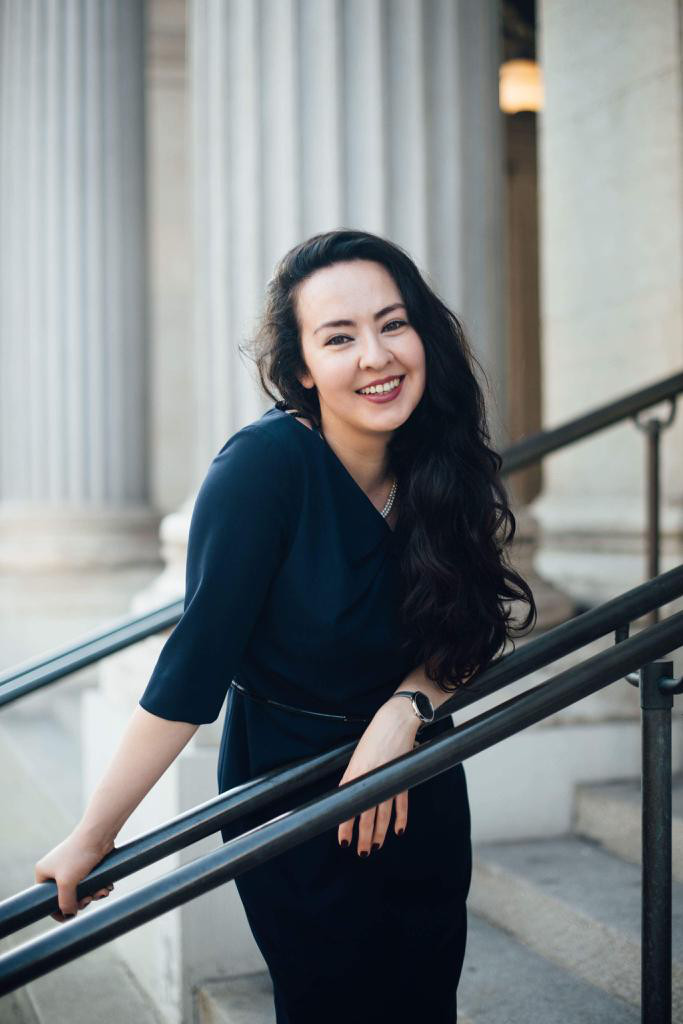
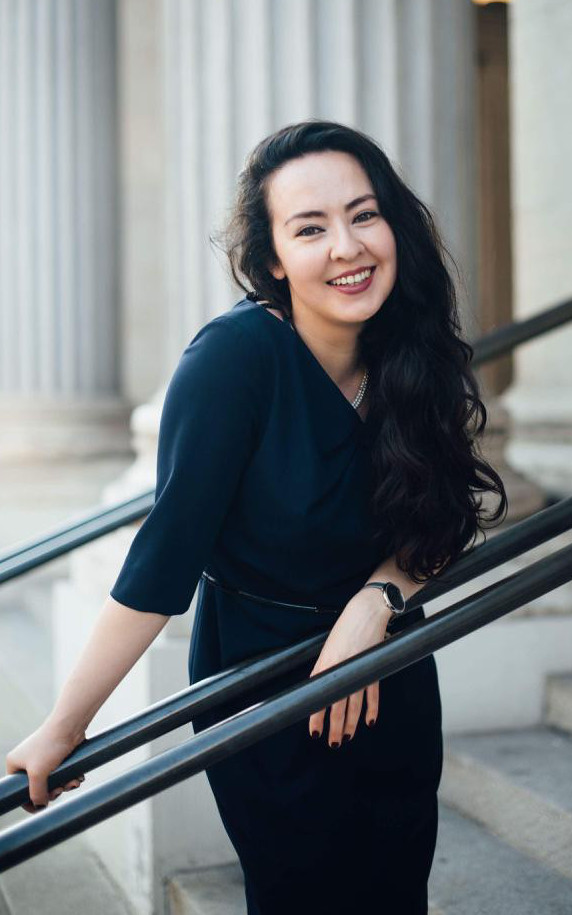
improve

diff --git a/src/app/view/about-art-therapy/about-art-therapy.component.html b/src/app/view/about-art-therapy/about-art-therapy.component.html
@@ -35,30 +35,34 @@
 
 <section>
     <h3>Themen die ich betreue</h3>
-    PRIVAT BERUFLICH
-    Trauer
-    Scheidung
-    Mobbing
-    Selbstwertgefühl
-    Schuldgefühle
-    Thema Familiengründung
-    Sexualleben
-    Familienleben
+    <ul>
+        <li>PRIVAT BERUFLICH</li>
+        <li>Trauer</li>
+        <li>Scheidung</li>
+        <li>Mobbing</li>
+        <li>Selbstwertgefühl</li>
+        <li>Schuldgefühle</li>
+        <li>Thema Familiengründung</li>
+        <li>Sexualleben</li>
+        <li>Familienleben</li>
+    </ul>
 
-    Vergangenheitsbewältigung
-    Durchsetzungsvermögen
-    Persönliche Stärken
-    Physische & Psychische Gewalt, Sexualgewalt
-    Einsamkeit
-    Energie
-    Lebenskraft
-    Zielerreichung
-    Lebenskrisen
-    Mutterschaft
-    Gruppenarbeit
-    Chronische Schmerzen
-    Lebensplanung
-    Selbstkontrolle
-    Männlichkeit & Weiblichkeit
-    Ich und mein  Haustier
+    <ul>
+        <li>Vergangenheitsbewältigung</li>
+        <li>Durchsetzungsvermögen</li>
+        <li>Persönliche Stärken</li>
+        <li>Physische & Psychische Gewalt, Sexualgewalt</li>
+        <li>Einsamkeit</li>
+        <li>Energie</li>
+        <li>Lebenskraft</li>
+        <li>Zielerreichung</li>
+        <li>Lebenskrisen</li>
+        <li>Mutterschaft</li>
+        <li>Gruppenarbeit</li>
+        <li>Chronische Schmerzen</li>
+        <li>Lebensplanung</li>
+        <li>Selbstkontrolle</li>
+        <li>Männlichkeit & Weiblichkeit</li>
+        <li>Ich und mein  Haustier</li>
+    </ul>
 </section>

diff --git a/src/styles.scss b/src/styles.scss
@@ -29,6 +29,15 @@ a {
     }
 }
 
+p {
+    text-align: justify;
+}
+
+img {
+    max-width: 100%;
+    height: auto;
+}
+
 button[mat-raised-button] {
     border-radius: 18px;
 }
